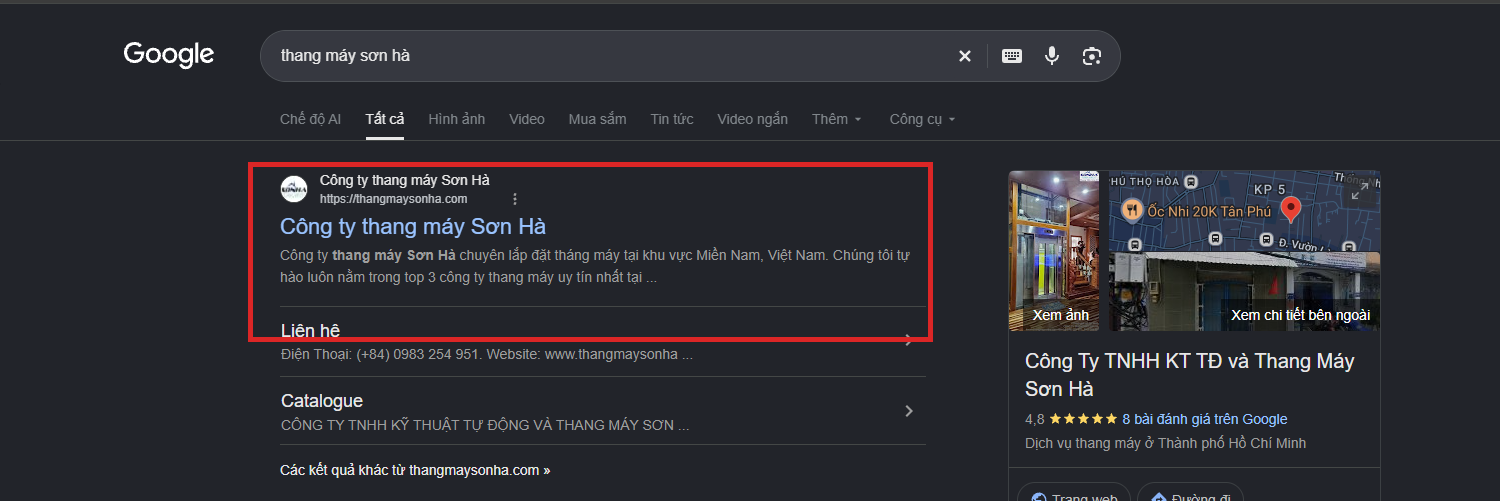
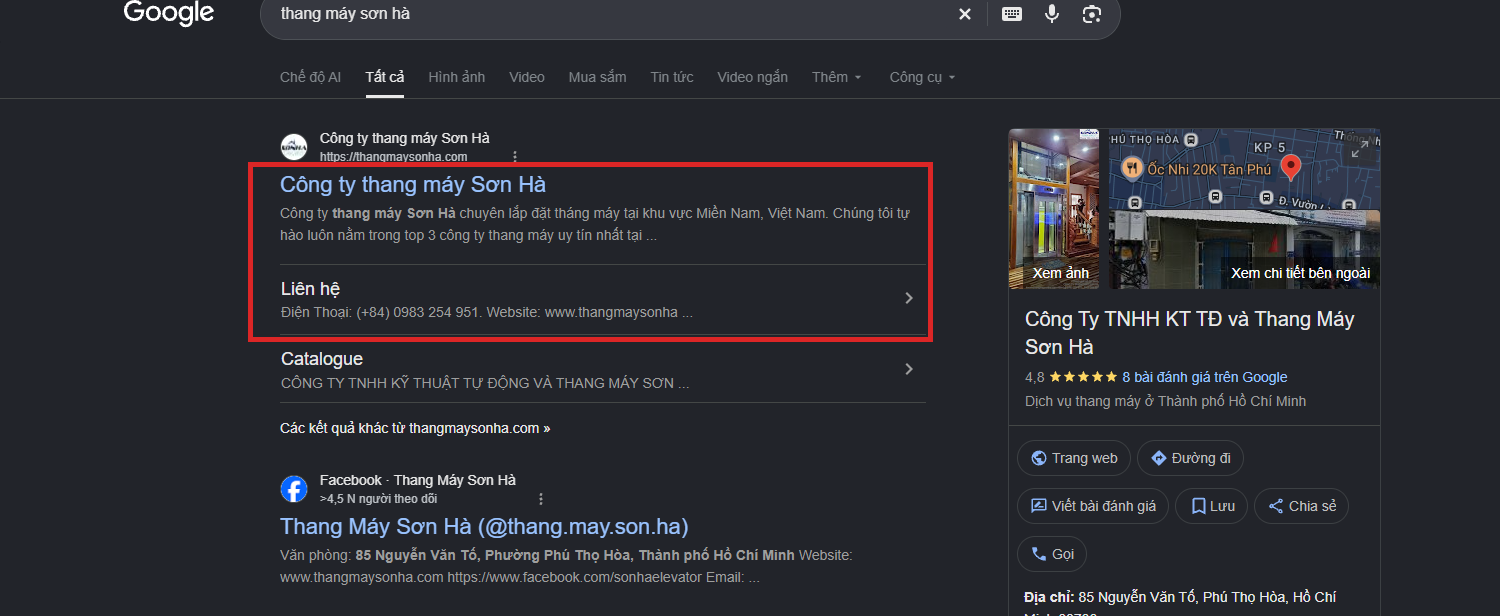
update

diff --git a/js/script.js b/js/script.js
@@ -311,8 +311,9 @@ function initParallax() {
 /* ---------- Thư viện ảnh: bấm vào ảnh để xem phóng to (lightbox) ---------- */
 function initMediaGallery() {
   const items = document.querySelectorAll(".media-gallery__item");
+  const zoomableImages = document.querySelectorAll(".viz-section img");
   const lightbox = document.getElementById("lightbox");
-  if (!items.length || !lightbox) return;
+  if ((!items.length && !zoomableImages.length) || !lightbox) return;
 
   const lightboxImg = document.getElementById("lightboxImg");
   const closeBtn = document.getElementById("lightboxClose");
@@ -334,6 +335,11 @@ function initMediaGallery() {
       const img = item.querySelector("img");
       open(img.src, img.alt);
     });
+  });
+
+  zoomableImages.forEach((img) => {
+    img.classList.add("is-zoomable");
+    img.addEventListener("click", () => open(img.src, img.alt));
   });
 
   closeBtn.addEventListener("click", close);

diff --git a/experience/sonha-elevator-marketing.html b/experience/sonha-elevator-marketing.html
@@ -427,6 +427,14 @@
 
   </main>
 
+  <!-- ============ LIGHTBOX (xem ảnh phóng to) ============ -->
+  <div class="lightbox" id="lightbox" aria-hidden="true">
+    <button type="button" class="lightbox__close" id="lightboxClose" aria-label="Đóng">
+      <svg class="icon" aria-hidden="true"><use href="#icon-x"></use></svg>
+    </button>
+    <img class="lightbox__img" id="lightboxImg" src="" alt="" />
+  </div>
+
   <!-- ============ FOOTER ============ -->
   <footer class="footer">
     <div class="container footer__inner">

diff --git a/css/style.css b/css/style.css
@@ -2677,6 +2677,16 @@ a.footer__info-item:hover {
   max-width: 100%;
 }
 
+.viz-section img.is-zoomable {
+  cursor: zoom-in;
+  transition: filter 0.25s ease, box-shadow 0.25s ease;
+}
+
+.viz-section img.is-zoomable:hover {
+  filter: brightness(1.05);
+  box-shadow: 0 0 0 3px rgba(30, 155, 215, 0.35);
+}
+
 .viz-images--pair {
   grid-template-columns: repeat(2, 1fr);
 }
